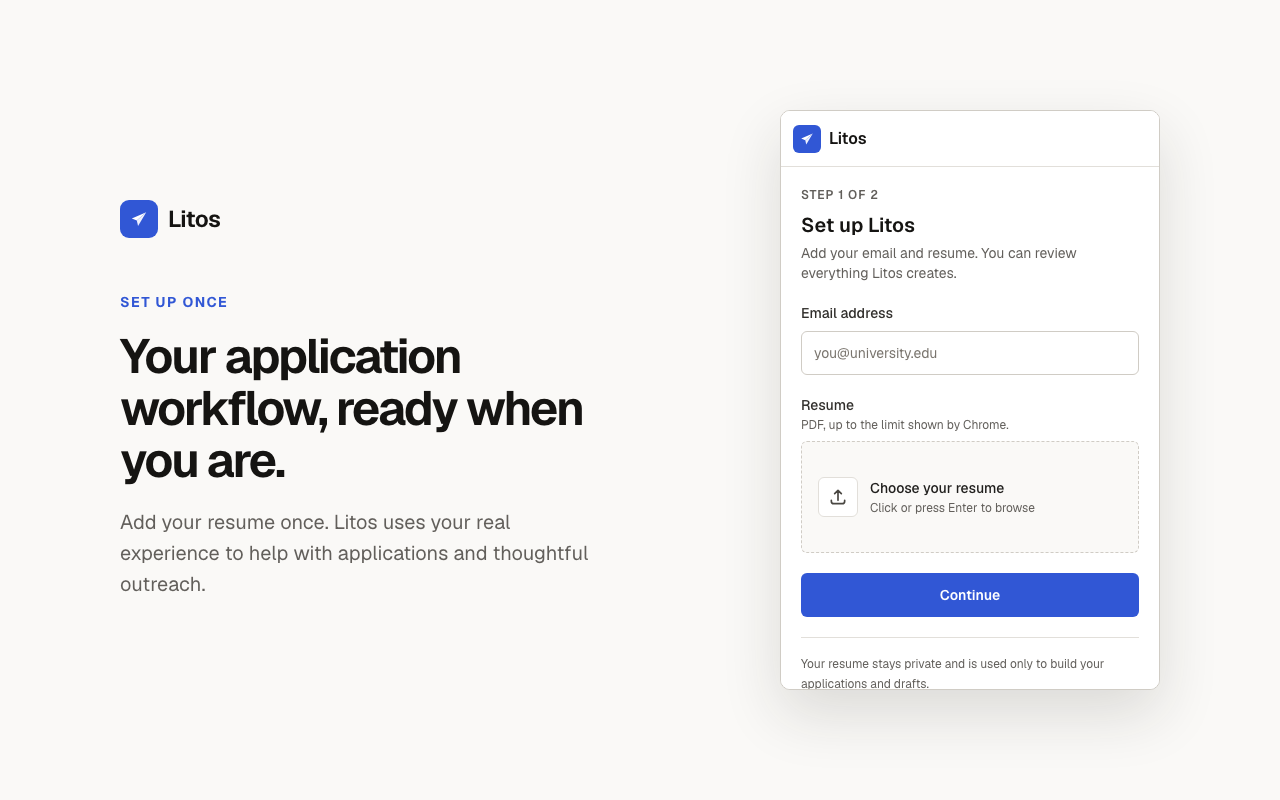
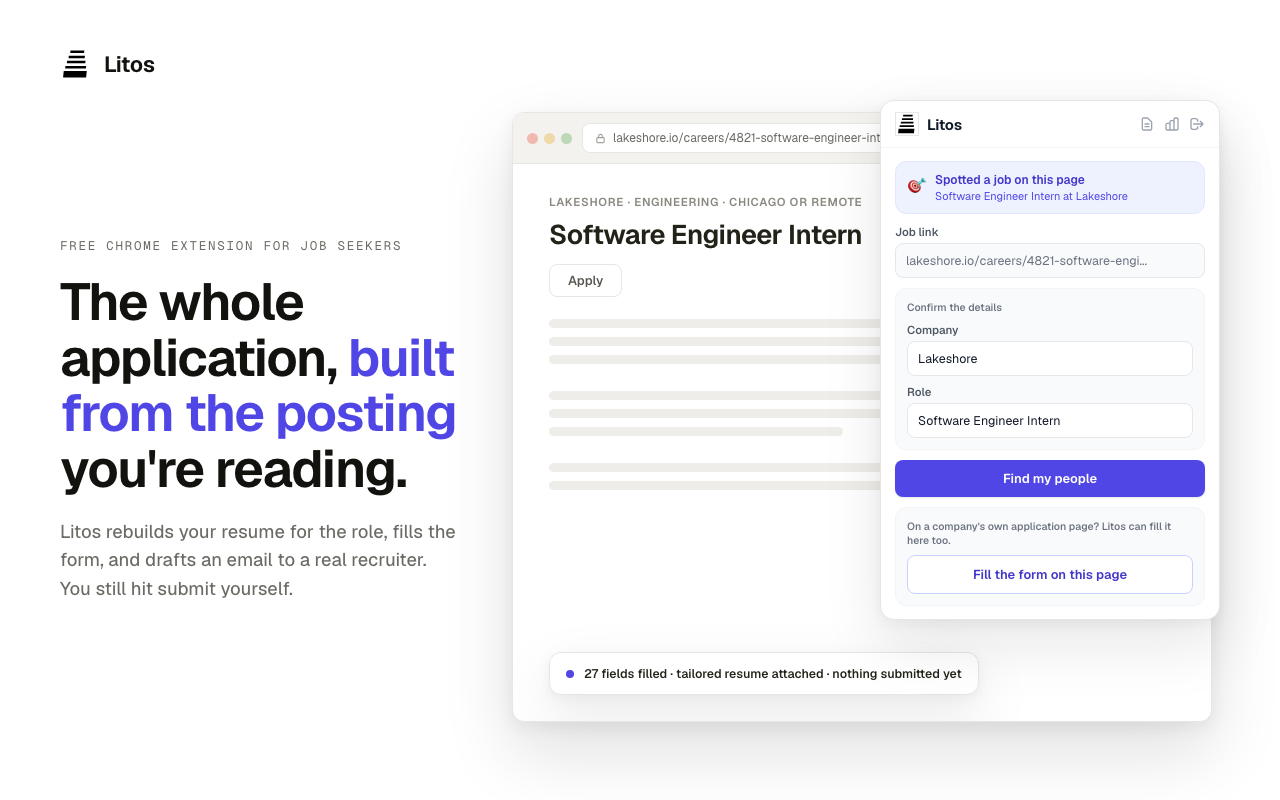
chore(release): 0.4.10 with the Stack mark and re-shot store assets
Store listing assets re-rendered from the checked-in sources in the vault
(store-assets-v2/src) at exact Chrome Web Store specs: five 1280x800
screenshots, a 440x280 small promo tile, a 1400x560 marquee, and the 128x128
store icon. Every one now carries the Stack mark and the Litos wordmark; the
sources still said "rolequick" in the brandbar and footer, which is why the
old screenshots were stale in more than just the logo.

The signature blue stays: it is the UI accent throughout the shots, and only
the mark itself is black on white.

Deliberately not included: the sixth shot, which is beta-tester testimonial
quotes. Those cannot go on a public listing until the quotes are verified and
the testers have agreed to them being used.

diff --git a/src/lib/product.test.ts b/src/lib/product.test.ts
@@ -5,10 +5,10 @@ describe('Litos product contract', () => {
   it('pins the offline identity and API compatibility fallback', () => {
     expect(PRODUCT_NAME).toBe('Litos');
     expect(API_VERSION).toBe('1');
-    expect(EXTENSION_VERSION).toBe('0.4.9');
+    expect(EXTENSION_VERSION).toBe('0.4.10');
     expect(litosClientHeaders()).toEqual({
       'X-Litos-Client': 'extension',
-      'X-Litos-Version': '0.4.9',
+      'X-Litos-Version': '0.4.10',
     });
   });
 });

diff --git a/src/lib/product.ts b/src/lib/product.ts
@@ -1,6 +1,6 @@
 export const PRODUCT_NAME = 'Litos';
 export const API_VERSION = '1';
-export const EXTENSION_VERSION = '0.4.9';
+export const EXTENSION_VERSION = '0.4.10';
 
 export function litosClientHeaders(): Record<string, string> {
   const version =

diff --git a/CHANGELOG.md b/CHANGELOG.md
@@ -2,6 +2,12 @@
 
 All notable changes to the Litos extension are documented here.
 
+## [0.4.10] - 2026-07-23
+
+### Changed
+
+- Changed the brand mark to the Stack: a black stack of four tapering bars over a solid block, on a plain white ground. It replaces the paper dart everywhere, matching the website. Toolbar icons at every size are regenerated from that one artwork, and the popup header no longer sits the mark on a coloured square, because the mark carries its own ground.
+
 ## [0.4.9] - 2026-07-23
 
 ### Added